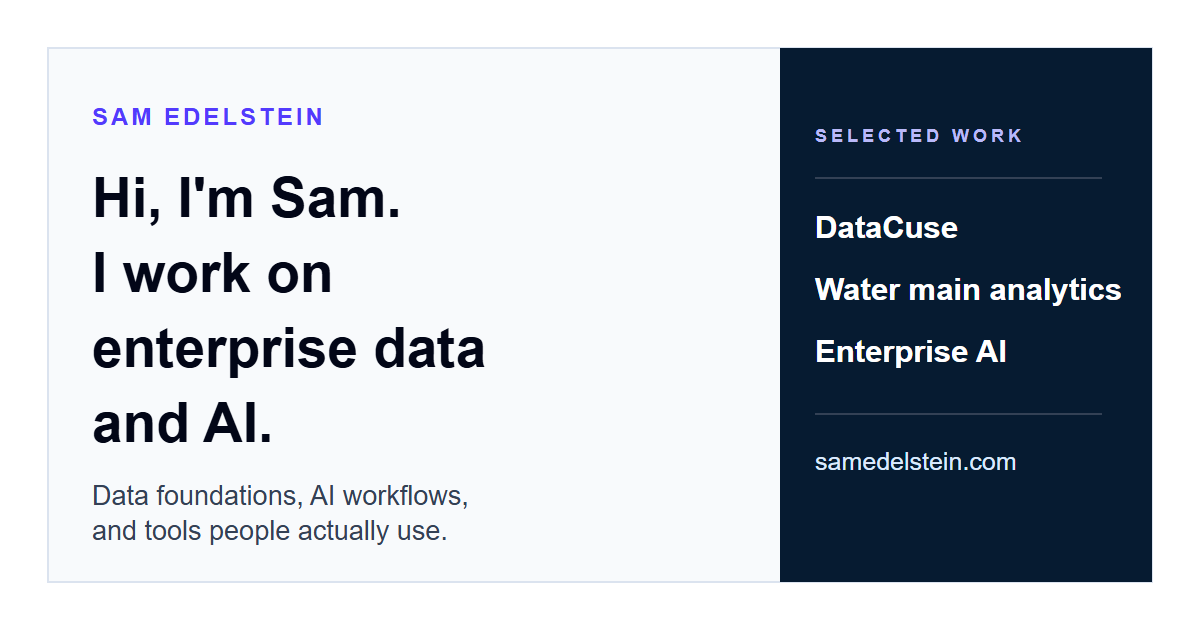
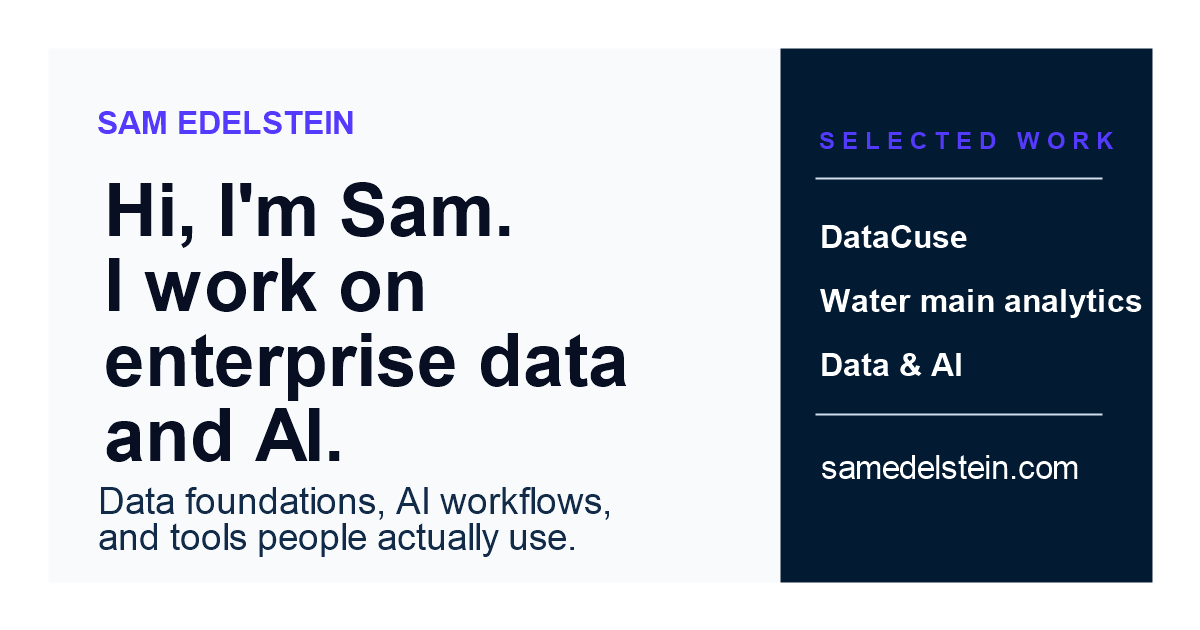
Soften selected AI work naming

diff --git a/site/public/proof/enterprise-ai-in-practice/index.html b/site/public/proof/enterprise-ai-in-practice/index.html
@@ -9,17 +9,17 @@
     <meta name="application-name" content="Sam Edelstein" />
     <meta name="viewport" content="width=device-width, initial-scale=1.0" />
     <meta name="theme-color" content="#020617" />
-    <meta name="description" content="Enterprise AI selected work for Sam Edelstein: useful workflows, data foundations, governance, and practical delivery." />
+    <meta name="description" content="AI selected work for Sam Edelstein: useful workflows, data foundations, governance, and practical delivery." />
     <link rel="canonical" href="https://samedelstein.com/proof/enterprise-ai-in-practice/" />
     <link rel="alternate" type="application/json" href="https://samedelstein.com/profile.json" />
-    <meta property="og:title" content="Enterprise AI in Practice | Sam Edelstein" />
+    <meta property="og:title" content="AI in Practice | Sam Edelstein" />
     <meta property="og:description" content="Selected work note for Data & AI work: useful AI workflows, governance, platform readiness, and practical delivery." />
     <meta property="og:type" content="article" />
     <meta property="og:url" content="https://samedelstein.com/proof/enterprise-ai-in-practice/" />
     <meta property="og:image" content="https://samedelstein.com/social-card.png" />
     <meta property="og:image:alt" content="Sam Edelstein personal site preview for enterprise data and AI work." />
     <meta name="twitter:card" content="summary_large_image" />
-    <meta name="twitter:title" content="Enterprise AI in Practice | Sam Edelstein" />
+    <meta name="twitter:title" content="AI in Practice | Sam Edelstein" />
     <meta name="twitter:description" content="Selected work note for Data & AI work: useful AI workflows, governance, platform readiness, and practical delivery." />
     <meta name="twitter:image" content="https://samedelstein.com/social-card.png" />
     <meta name="twitter:image:alt" content="Sam Edelstein personal site preview for enterprise data and AI work." />
@@ -27,7 +27,7 @@
       {
         "@context": "https://schema.org",
         "@type": "CreativeWork",
-        "name": "Enterprise AI in Practice",
+        "name": "AI in Practice",
         "url": "https://samedelstein.com/proof/enterprise-ai-in-practice/",
         "description": "Work on turning AI ideas into useful workflows across data foundations, governance, delivery, and applied use cases.",
         "about": [
@@ -61,7 +61,7 @@
         ]
       }
     </script>
-    <title>Enterprise AI in Practice | Sam Edelstein</title>
+    <title>AI in Practice | Sam Edelstein</title>
     <style>
       :root { --ink:#020617; --muted:#475569; --line:#dbe3ef; --soft:#f8fafc; --blue:#1d4ed8; }
       * { box-sizing:border-box; }
@@ -90,14 +90,14 @@
     <header><nav class="wrap"><a href="/">Sam Edelstein</a><a href="/proof/">Selected Work</a></nav></header>
     <main class="wrap">
       <p class="eyebrow">Project Note</p>
-      <h1>Enterprise AI in Practice</h1>
+      <h1>AI in Practice</h1>
       <p class="lead">Work on turning AI ideas into useful workflows across data foundations, governance, delivery, and applied use cases.</p>
       <section><h2>Problem</h2><p>A global firm had plenty of AI interest, but the harder work was deciding where it fit, what data it needed, and how to use it responsibly inside real workflows.</p></section>
       <section><h2>Role</h2><p>Worked with senior stakeholders and delivery teams to sort the useful ideas from the distracting ones, connect them to data readiness, and put lightweight structure around the work.</p></section>
       <section><h2>What shipped</h2><ul><li>A phased AI delivery approach.</li><li>A prioritized set of use cases tied to real workflows.</li><li>Data readiness materials that helped teams understand what the work required.</li></ul></section>
       <section><h2>What mattered</h2><ul><li>Making the work legible enough for teams to use.</li><li>Keeping governance and delivery connected instead of separate tracks.</li><li>Creating a repeatable way to move from idea to working tool.</li></ul></section>
       <section><h2>Working themes</h2><ul><li>AI workflow design: turning broad interest into specific work people can actually do.</li><li>Data readiness: getting the foundations, ownership, and controls into shape.</li><li>Practical delivery: keeping the focus on useful tools, not demos for their own sake.</li></ul></section>
-      <div class="actions"><a class="button primary" href="mailto:sam.i.edelstein@gmail.com?subject=Enterprise%20AI%20conversation&amp;body=Hi%20Sam%2C%0A%0AI%27m%20reaching%20out%20after%20reviewing%20your%20enterprise%20AI%20project%20note.%0A%0A">Email Sam</a><a class="button" href="/brief/">Background</a></div>
+      <div class="actions"><a class="button primary" href="mailto:sam.i.edelstein@gmail.com?subject=AI%20workflow%20conversation&amp;body=Hi%20Sam%2C%0A%0AI%27m%20reaching%20out%20after%20reviewing%20your%20AI%20project%20note.%0A%0A">Email Sam</a><a class="button" href="/brief/">Background</a></div>
     </main>
     <footer><div class="wrap">Sam Edelstein | Enterprise Data &amp; AI, governed data foundations, useful AI workflows, and public data background.</div></footer>
   </body>

diff --git a/site/public/proof/index.html b/site/public/proof/index.html
@@ -11,7 +11,7 @@
     <meta name="theme-color" content="#020617" />
     <meta
       name="description"
-      content="Selected work from Sam Edelstein across enterprise AI in practice, governed data platforms, open data, predictive analytics, and public data work."
+      content="Selected work from Sam Edelstein across AI in Practice, governed data platforms, open data, predictive analytics, and public data work."
     />
     <link rel="canonical" href="https://samedelstein.com/proof/" />
     <link rel="alternate" type="application/json" href="https://samedelstein.com/profile.json" />
@@ -19,7 +19,7 @@
     <meta property="og:title" content="Sam Edelstein | Selected Work" />
     <meta
       property="og:description"
-      content="Selected work from enterprise AI in practice, DataCuse, and predictive infrastructure analytics."
+      content="Selected work from AI in Practice, DataCuse, and predictive infrastructure analytics."
     />
     <meta property="og:type" content="website" />
     <meta property="og:url" content="https://samedelstein.com/proof/" />
@@ -36,7 +36,7 @@
         "@type": "CollectionPage",
         "name": "Sam Edelstein | Selected Work",
         "url": "https://samedelstein.com/proof/",
-        "description": "Selected work from Sam Edelstein's Data & AI work across enterprise AI in practice, governed data platforms, open data, predictive analytics, and public data work.",
+        "description": "Selected work from Sam Edelstein's Data & AI work across AI in Practice, governed data platforms, open data, predictive analytics, and public data work.",
         "about": {
           "@type": "Person",
           "name": "Sam Edelstein",
@@ -49,7 +49,7 @@
           ],
           "jobTitle": "Senior Vice President, Data & AI",
           "knowsAbout": [
-            "Enterprise AI in practice",
+            "AI in Practice",
             "AI governance",
             "Data platform leadership",
             "Open data platforms",
@@ -67,7 +67,7 @@
               "position": 1,
               "item": {
                 "@type": "CreativeWork",
-                "name": "Enterprise AI in Practice",
+                "name": "AI in Practice",
                 "url": "https://samedelstein.com/proof/enterprise-ai-in-practice/",
                 "description": "Work on turning AI ideas into useful workflows across data foundations, governance, delivery, and applied use cases."
               }
@@ -148,14 +148,14 @@
         <div class="wrap">
           <p class="eyebrow">Selected Work</p>
           <h1>A few projects I&apos;m proud of.</h1>
-          <p class="lead">A short collection of work across enterprise AI, open data, predictive analytics, and public data systems.</p>
+          <p class="lead">A short collection of work across AI workflows, open data, predictive analytics, and public data systems.</p>
         </div>
       </section>
       <section class="wrap grid" aria-label="Selected work">
         <article>
-          <h2>Enterprise AI in Practice</h2>
+          <h2>AI in Practice</h2>
           <p>Work on turning AI ideas into useful workflows across data foundations, governance, delivery, and applied use cases.</p>
-          <p><strong>Shows:</strong> enterprise AI, governance, data readiness, and useful workflows.</p>
+          <p><strong>Shows:</strong> AI workflows, governance, data readiness, and useful workflows.</p>
           <a class="button" href="/proof/enterprise-ai-in-practice/">Read Note</a>
         </article>
         <article>

diff --git a/site/public/case-studies/index.html b/site/public/case-studies/index.html
@@ -11,7 +11,7 @@
     <meta name="theme-color" content="#020617" />
     <meta
       name="description"
-      content="Sam Edelstein selected work: enterprise AI in practice, DataCuse open data platform, and predictive infrastructure analytics."
+      content="Sam Edelstein selected work: AI in Practice, DataCuse open data platform, and predictive infrastructure analytics."
     />
     <meta name="robots" content="noindex,follow" />
     <meta http-equiv="refresh" content="8; url=/proof/" />
@@ -60,7 +60,7 @@
               "position": 1,
               "item": {
                 "@type": "CreativeWork",
-                "name": "Enterprise AI in Practice",
+                "name": "AI in Practice",
                 "url": "https://samedelstein.com/proof/enterprise-ai-in-practice/"
               }
             },
@@ -115,7 +115,7 @@
       <p class="eyebrow">Selected Work</p>
       <h1>This selected work page moved.</h1>
       <p>
-        The current selected work shows enterprise AI in practice, governed data platforms, and operational analytics work.
+        The current selected work shows AI in Practice, governed data platforms, and operational analytics work.
       </p>
       <div class="actions">
         <a class="button primary" href="mailto:sam.i.edelstein@gmail.com?subject=Data%20%26%20AI%20conversation&amp;body=Hi%20Sam%2C%0A%0AI%27m%20reaching%20out%20after%20reviewing%20your%20selected%20work.%0A%0A">Email Sam</a>
@@ -125,7 +125,7 @@
       <section class="panel">
         <strong>Selected work</strong>
         <ul>
-          <li>Enterprise AI in Practice: delivery approach, governance, data readiness, and applied workflows.</li>
+          <li>AI in Practice: delivery approach, governance, data readiness, and applied workflows.</li>
           <li>DataCuse: open data platform, governance standards, public transparency, and cross-department analytics.</li>
           <li>Predictive Water Main Analytics: machine learning, infrastructure risk scoring, and operational prioritization.</li>
         </ul>

diff --git a/site/public/brief/index.html b/site/public/brief/index.html
@@ -444,7 +444,7 @@
             <h2>Project notes</h2>
             <div class="cards" style="grid-template-columns: 1fr; margin-top: 24px;">
               <article class="card">
-                <h3>Enterprise AI in Practice</h3>
+                <h3>AI in Practice</h3>
                 <p class="muted">Work on turning AI ideas into useful workflows across data foundations, governance, delivery, and applied use cases.</p>
               </article>
               <article class="card">

diff --git a/site/src/App.jsx b/site/src/App.jsx
@@ -109,7 +109,7 @@ const selectedWork = [
     href: '/proof/predictive-water-main-analytics/',
   },
   {
-    title: 'Enterprise AI in practice',
+    title: 'AI in Practice',
     body: 'Confidential enterprise work focused on making AI useful across real workflows while keeping data, controls, and delivery connected.',
     href: '/proof/enterprise-ai-in-practice/',
   },

diff --git a/site/public/contact/index.html b/site/public/contact/index.html
@@ -54,7 +54,7 @@
           },
           "knowsAbout": [
             "Governed data foundations",
-            "Enterprise AI",
+            "Data & AI",
             "AI workflow design",
             "Data readiness",
             "Public data",
